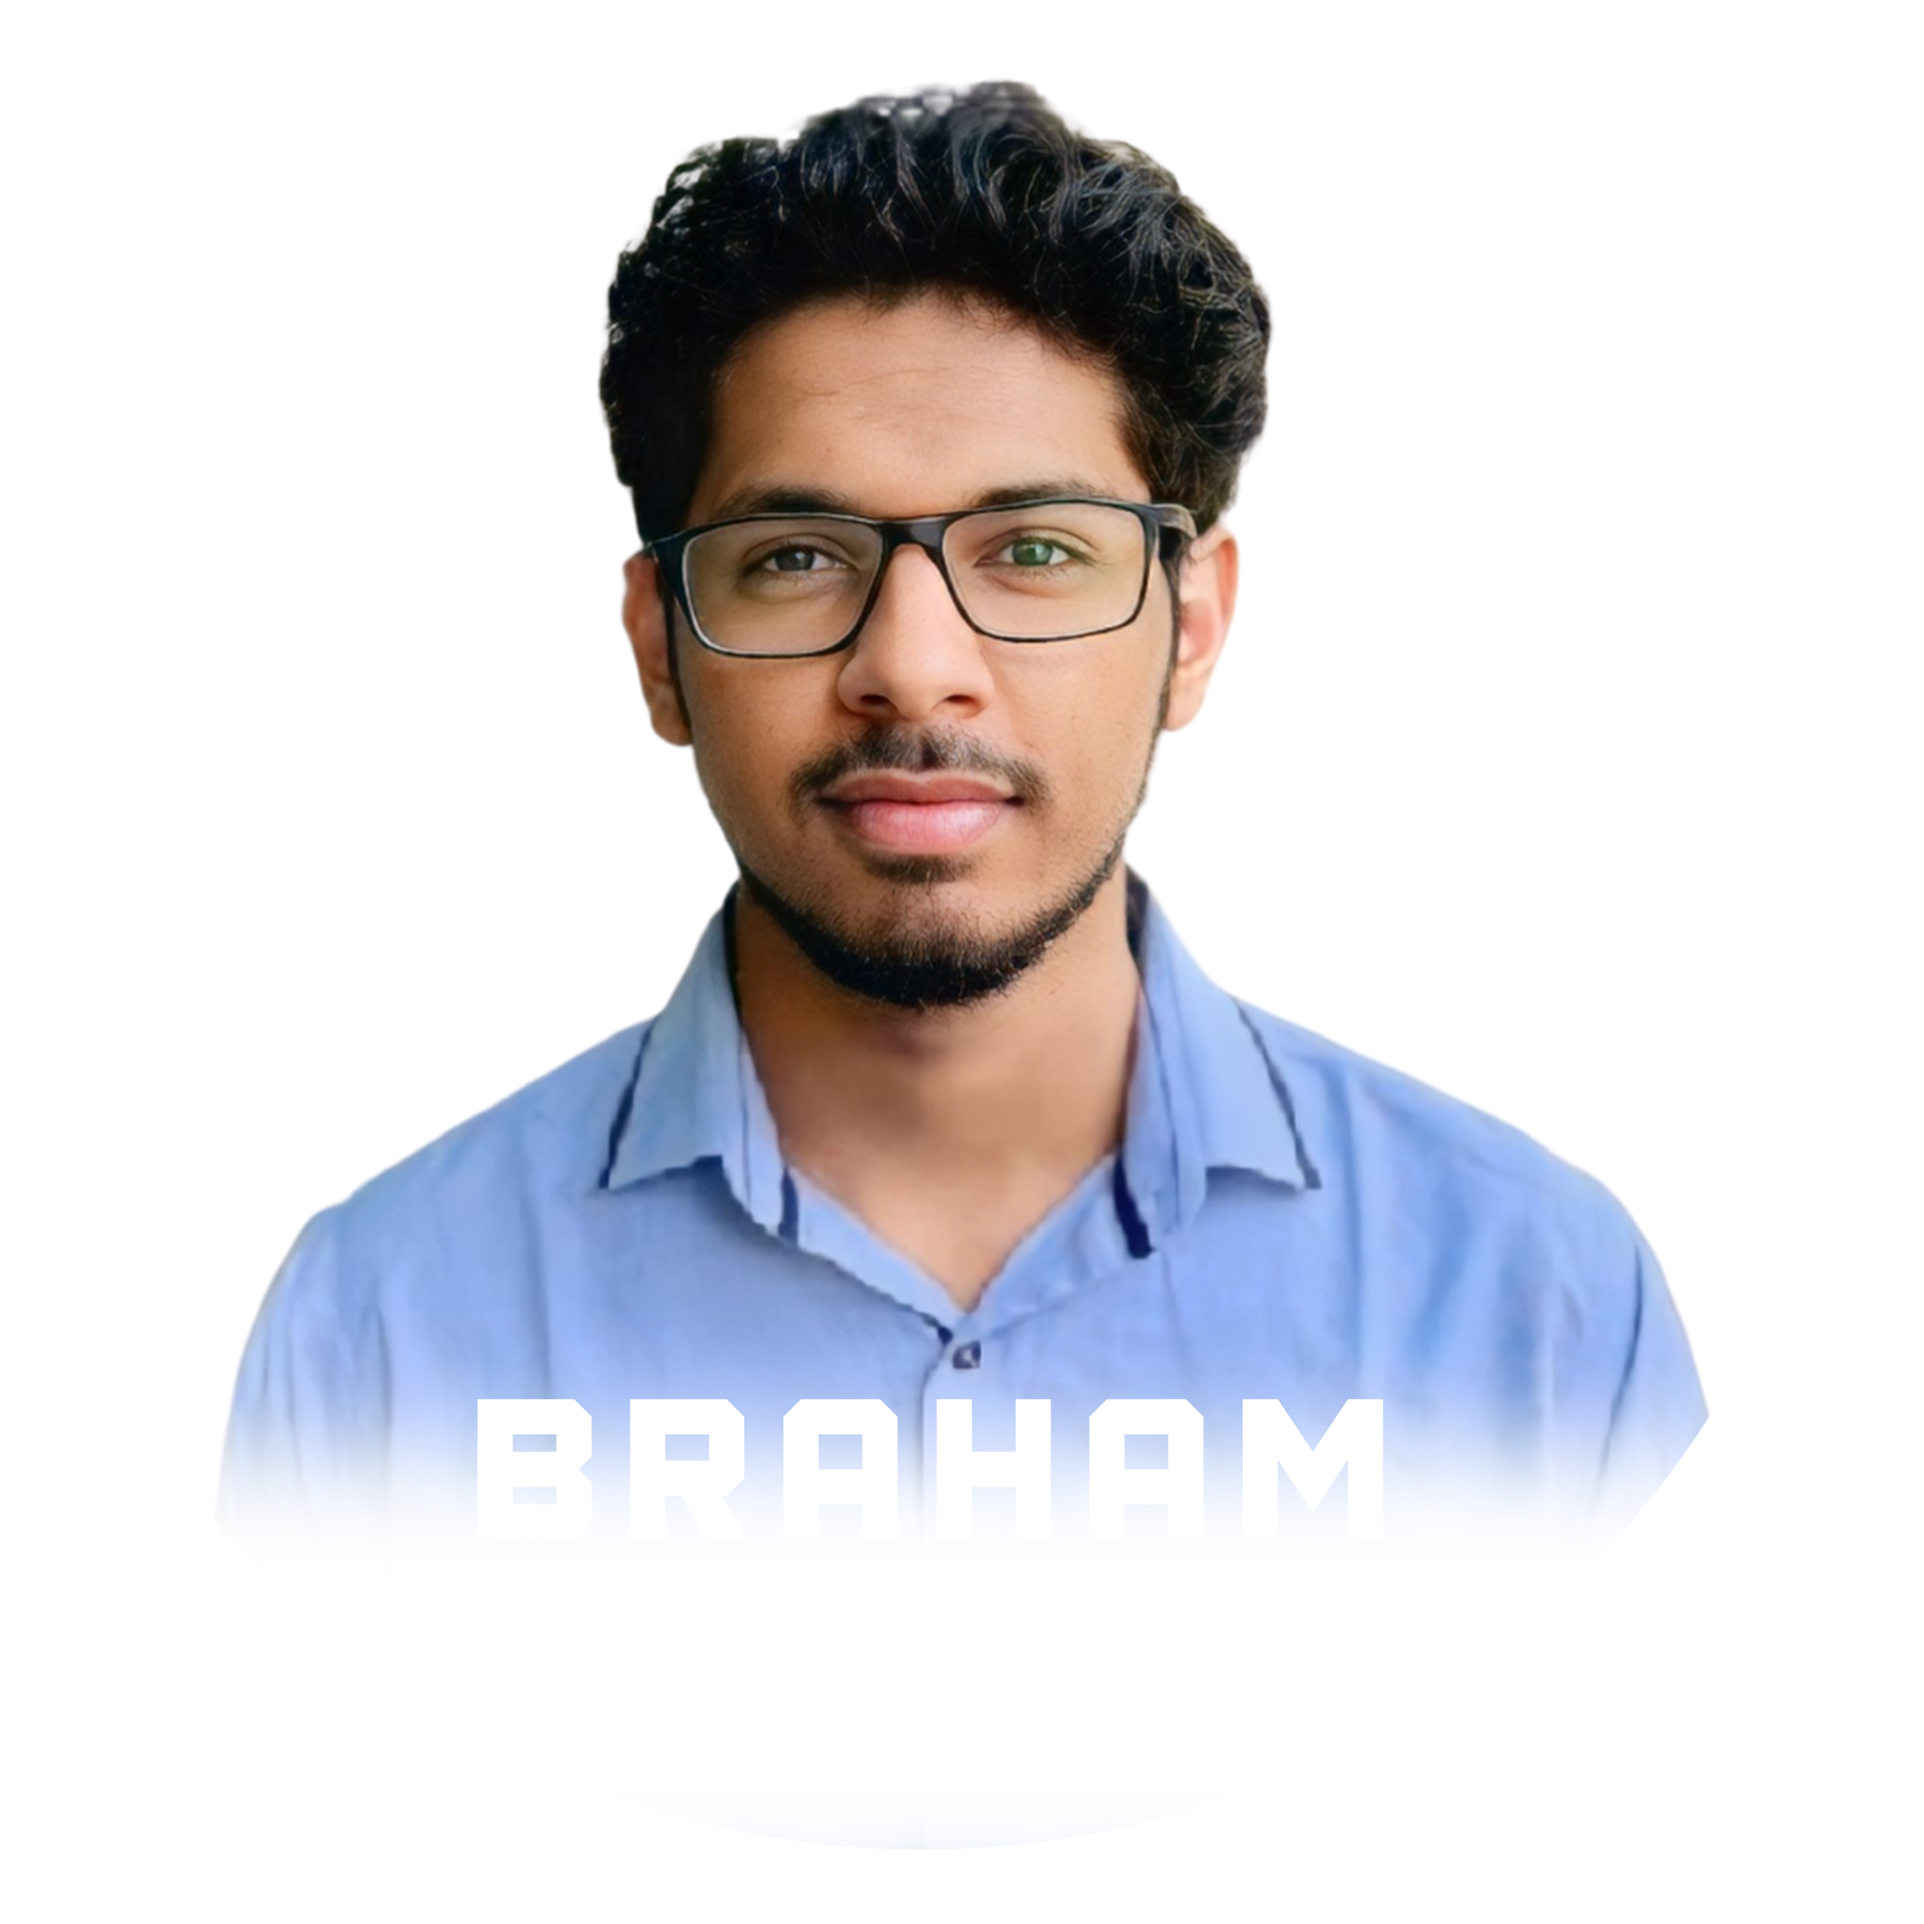
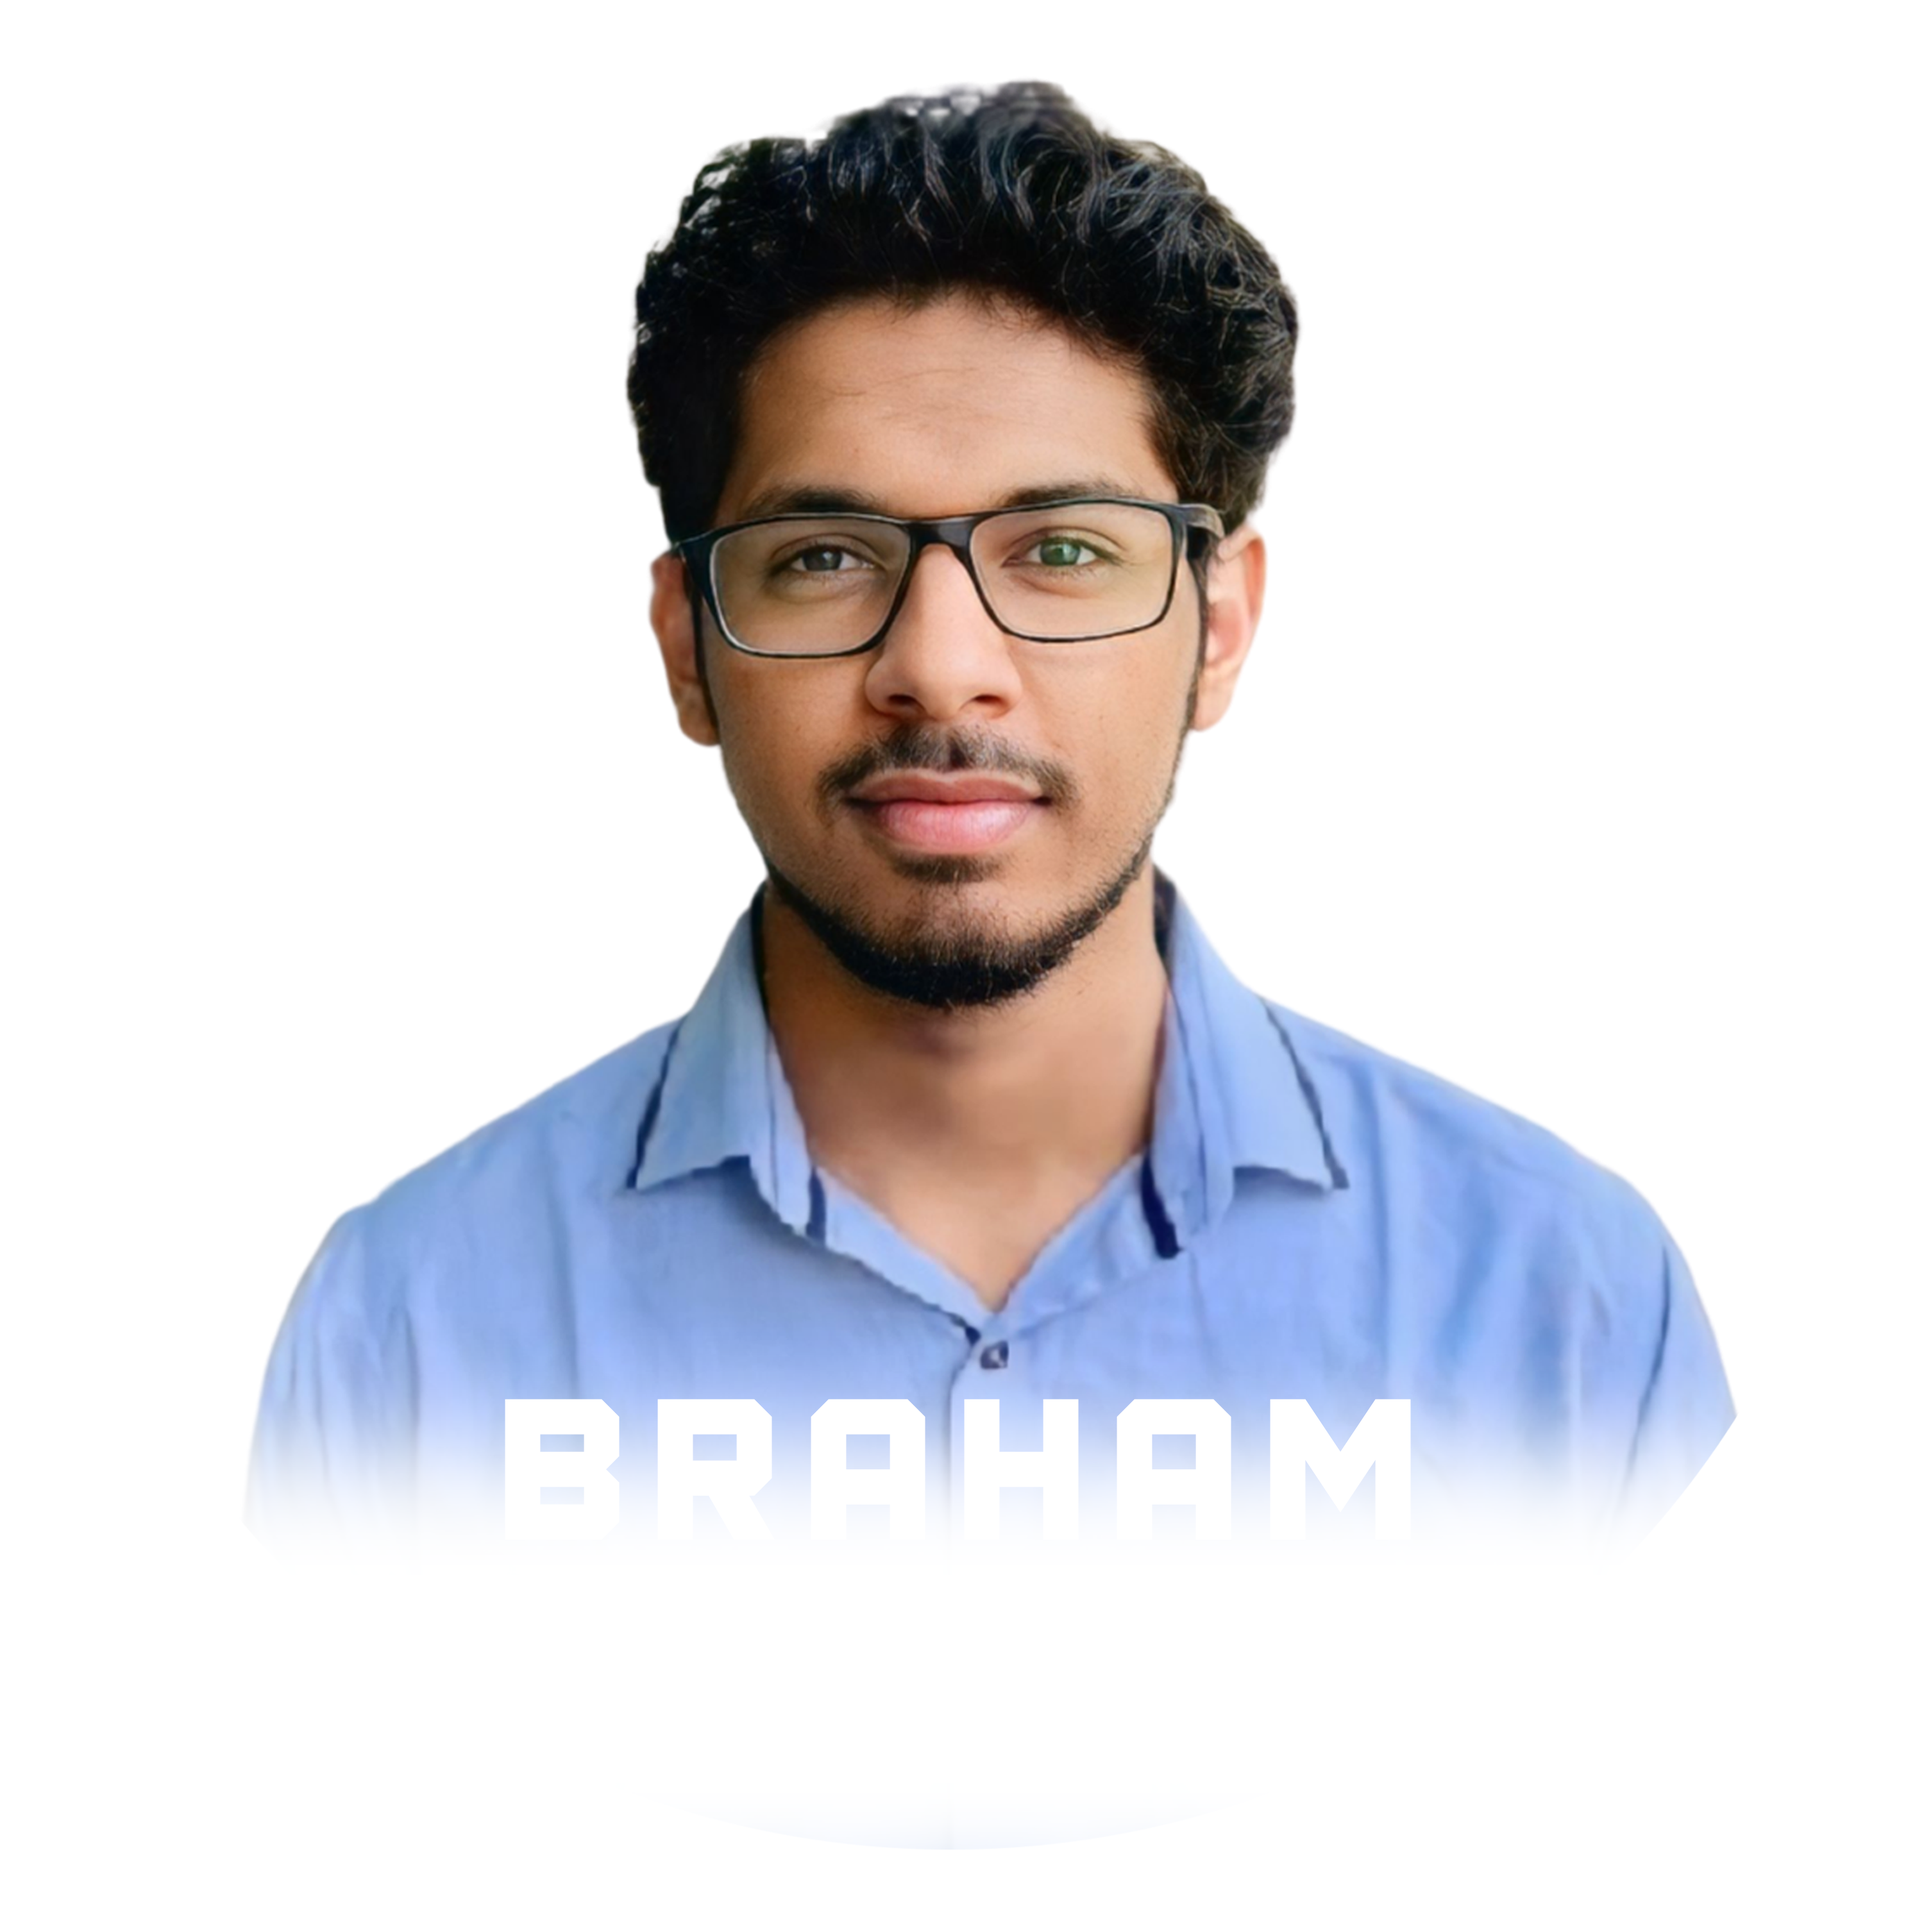
linked in links

Changed region(s): [[0.186, 0.031, 0.899, 0.775], [0.093, 0.62, 0.217, 0.775]]

diff --git a/src/components/Speakers/Speakers.jsx b/src/components/Speakers/Speakers.jsx
@@ -18,9 +18,18 @@ const Speakers = () => {
       <div className='speakers'>
         <h1 className='title-speakers'>SPEAKERS</h1>
         <div className='cards'>
-          <div className='tiltcard' id='speaker1' data-tilt data-tilt-glare data-tilt-max="10"></div>
-          <div className='tiltcard' id='speaker2' data-tilt data-tilt-glare data-tilt-max="10"></div>
-          <div className='tiltcard' id='speaker3' data-tilt data-tilt-glare data-tilt-max="10"></div>
+        <a href="https://www.linkedin.com/in/hariomshandilya/" target="_blank" rel="noopener noreferrer" class="speaker1">
+          <div className='tiltcard' id='speaker1' data-tilt data-tilt-glare data-tilt-max="10">
+          </div>
+        </a>
+        <a href="https://www.linkedin.com/in/sasmita-singh-37b0251b3/" target="_blank" rel="noopener noreferrer" class="speaker2">
+          <div className='tiltcard' id='speaker2' data-tilt data-tilt-glare data-tilt-max="10">
+          </div>
+        </a>
+        <a href="https://www.linkedin.com/in/braham-aggarwal-7a08b8209/" target="_blank" rel="noopener noreferrer" class="speaker2">
+          <div className='tiltcard' id='speaker3' data-tilt data-tilt-glare data-tilt-max="10">
+          </div>
+        </a>
         </div>
       </div>
     </header>

diff --git a/src/components/Sponsors/Sponsors.css b/src/components/Sponsors/Sponsors.css
@@ -23,6 +23,7 @@
   justify-content: center;
   gap: 2vw;
   height: 40vh; /* To adjust the position of the cards on the section */
+  cursor: pointer;
 }
 
 .sponsor-tilt {
